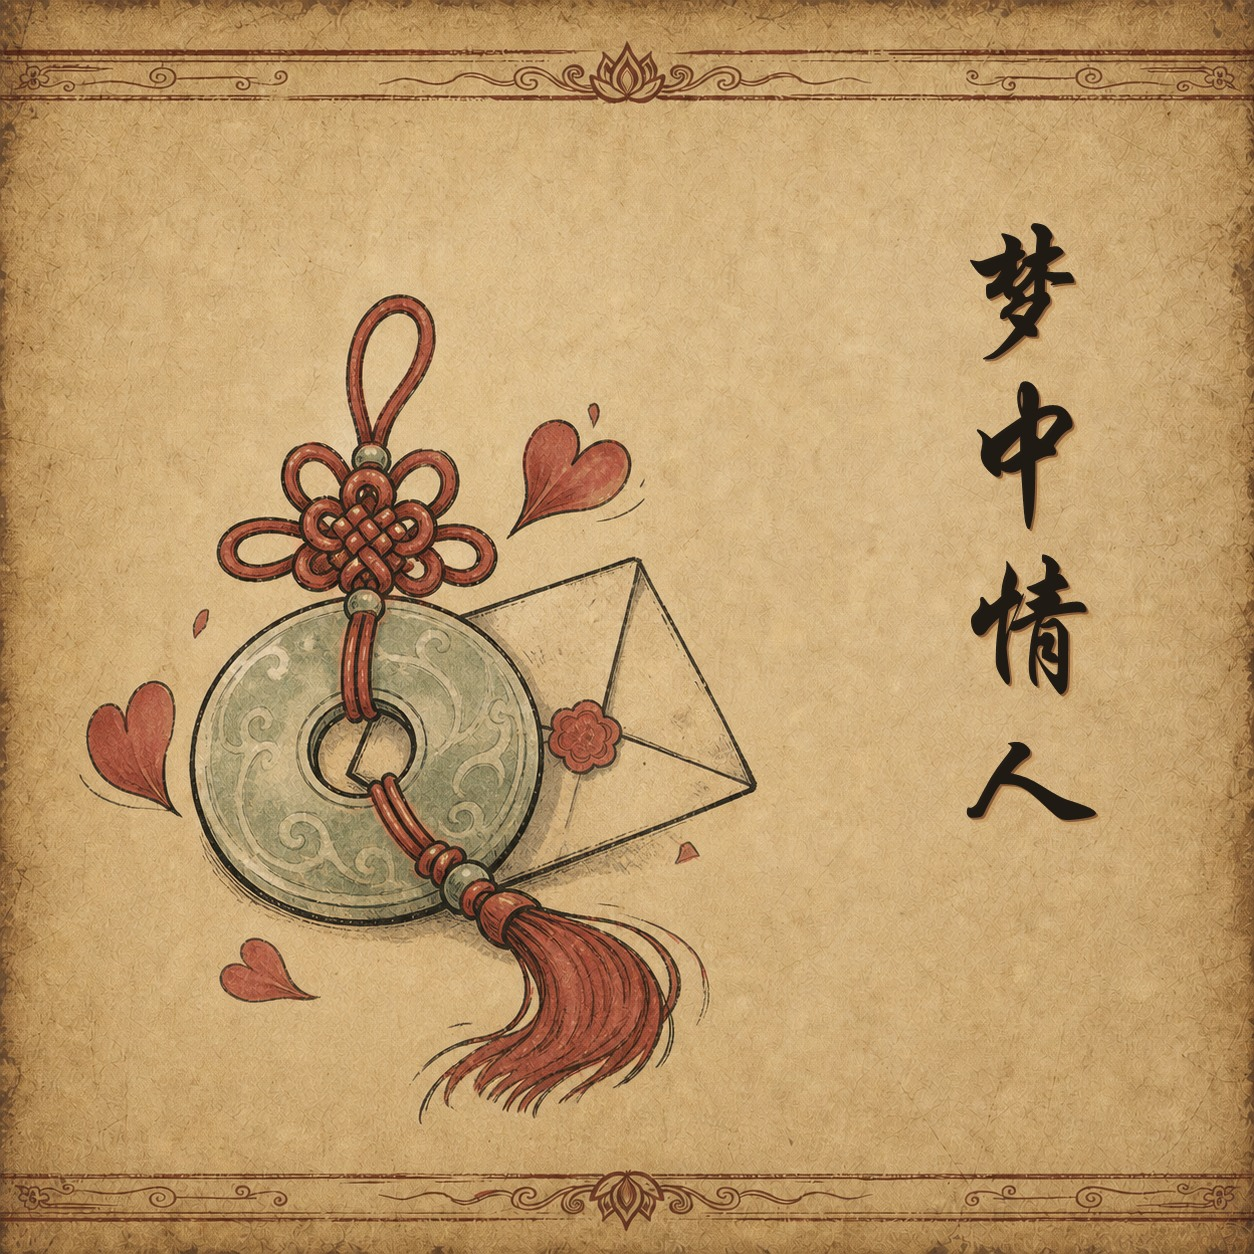
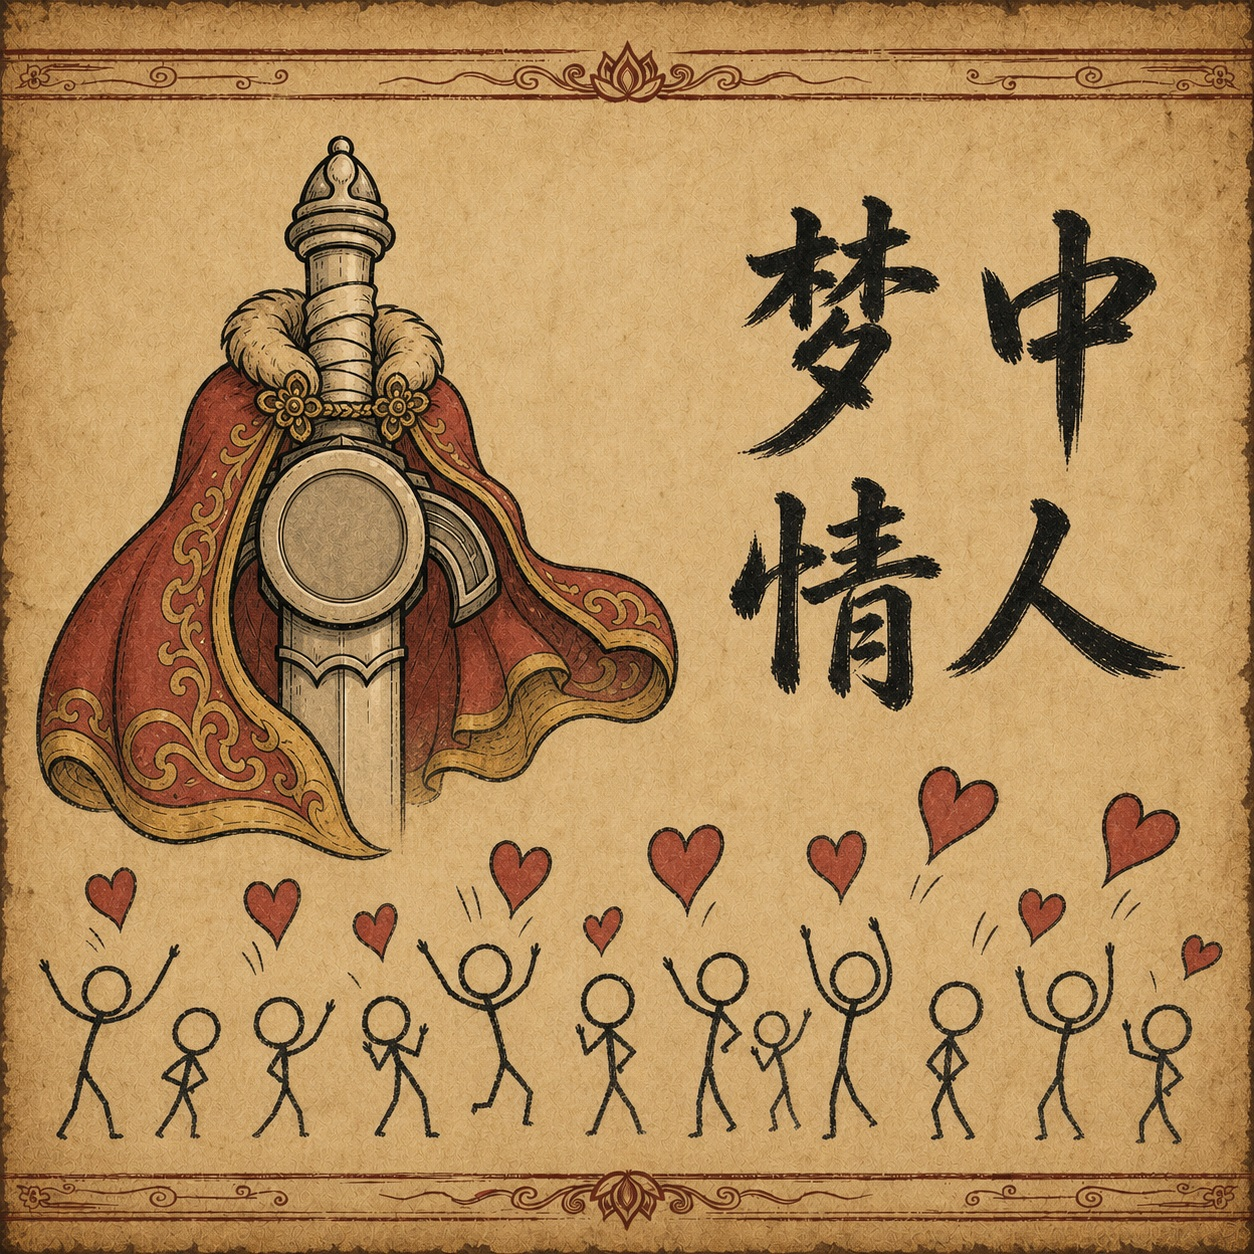
Sync DreamLover workshop metadata

diff --git a/DreamLover/DreamLover.Backend/BackendPlugin.cs b/DreamLover/DreamLover.Backend/BackendPlugin.cs
@@ -3,7 +3,7 @@ using TaiwuModdingLib.Core.Plugin;
 
 namespace DreamLover.Backend
 {
-    [PluginConfig("DreamLover", "RedContritio", "2.1.0")]
+    [PluginConfig("DreamLover", "RedContritio", "1.0.0.0")]
     public class BackendPlugin : TaiwuRemakePlugin
     {
         internal static string ModId;
